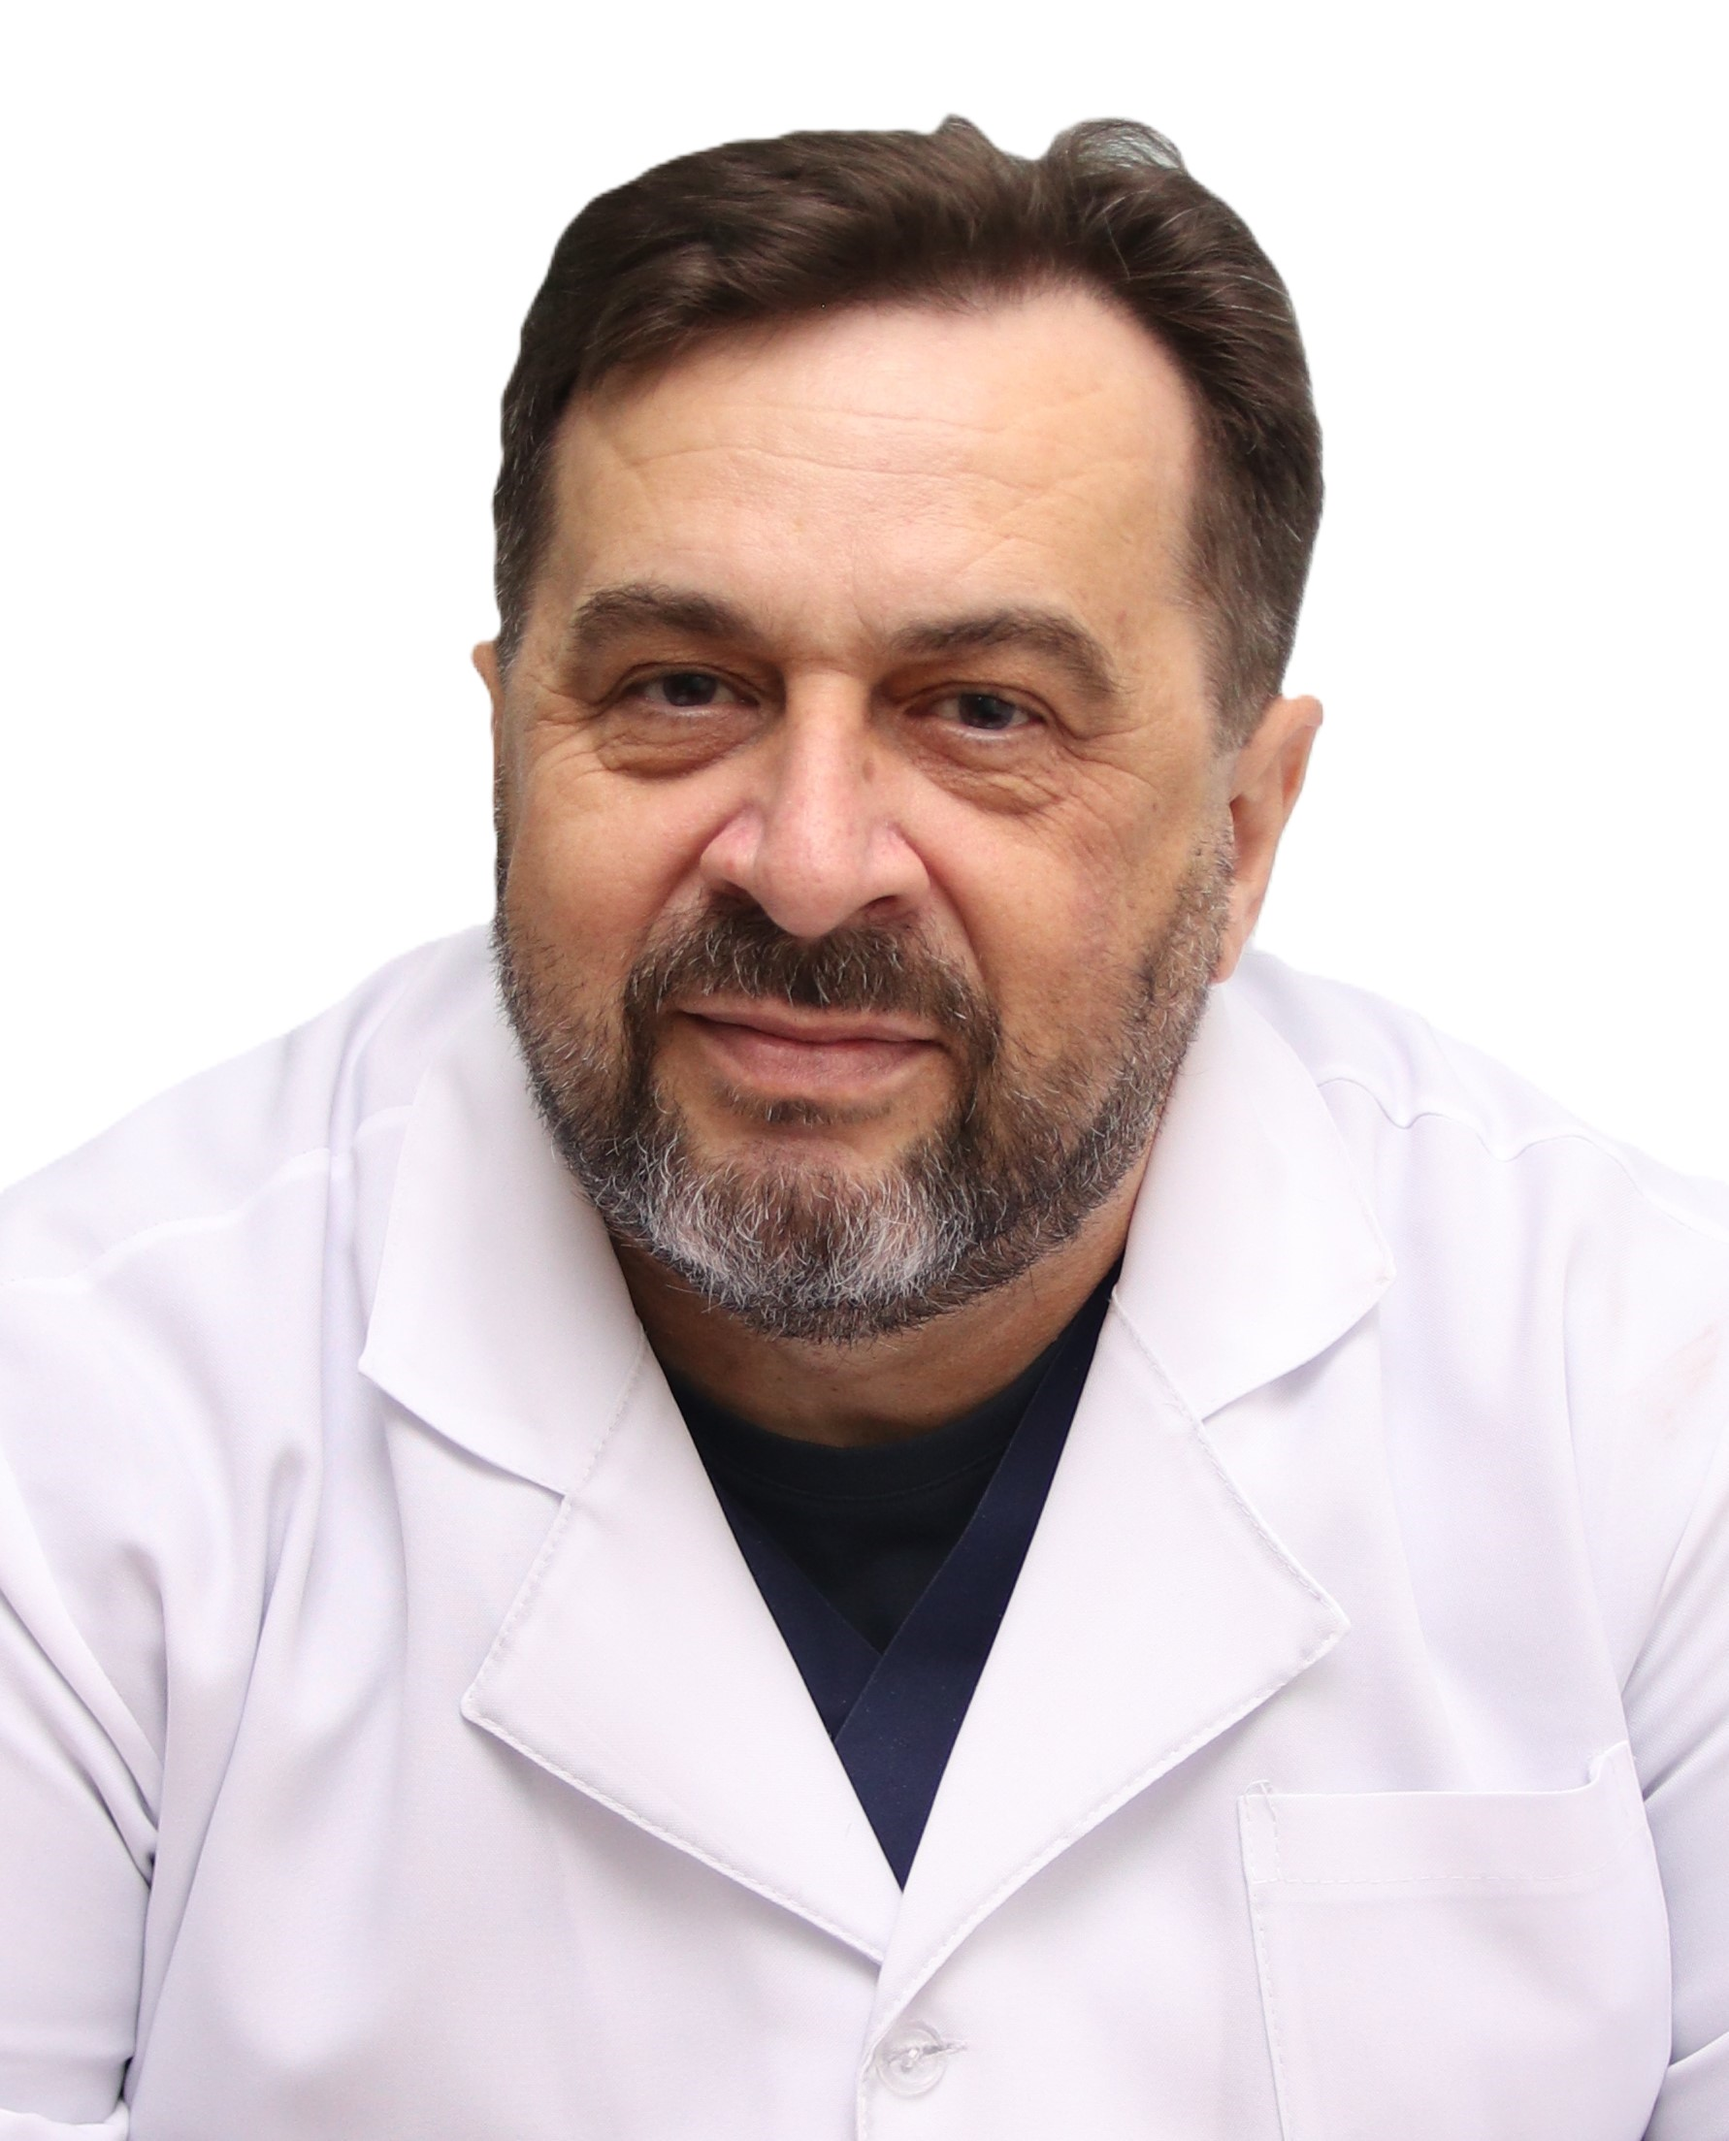
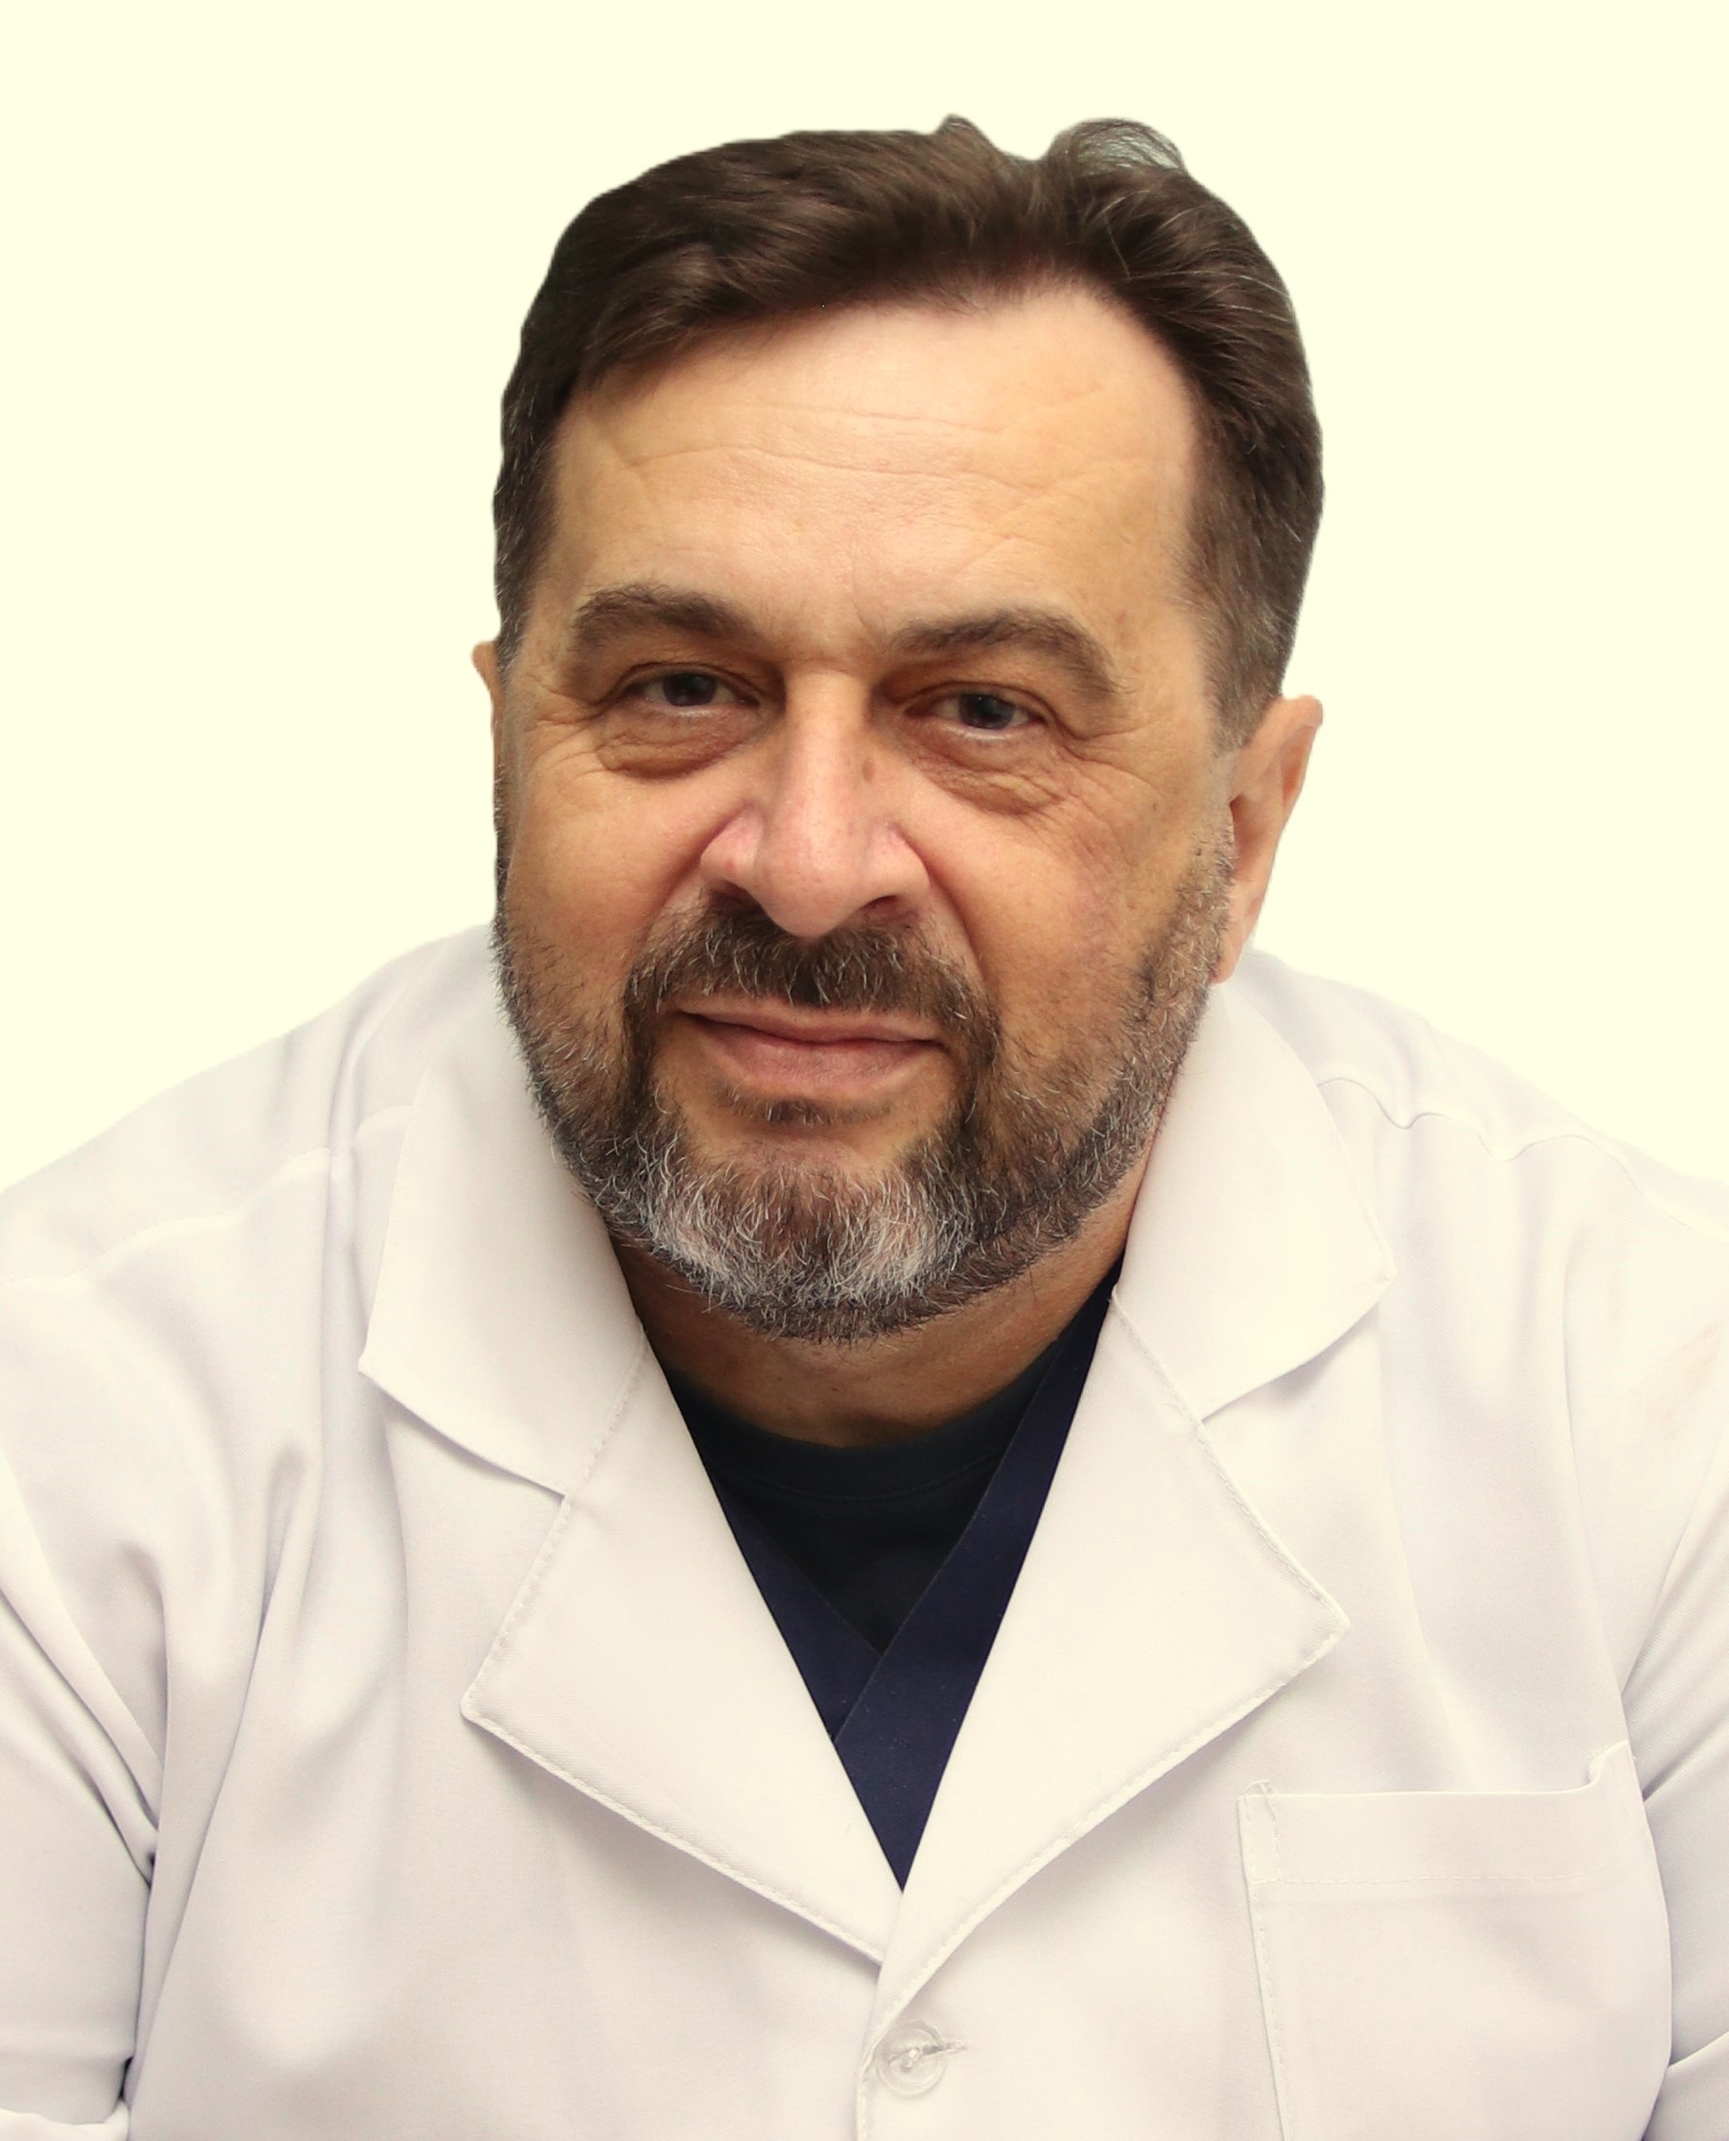
BsgBort 2 Foto

diff --git a/src/components/BigBord/BigBord.module.css b/src/components/BigBord/BigBord.module.css
@@ -15,18 +15,18 @@
 
 /* Контейнер для тексту та зображення */
 .containerBig {
-  background-image: url('/images/backround/backround2.jpg');
+  /* background-image: url('/images/backround/backround2.jpg'); */
   display: flex;
   flex-direction: row; /* Розміщення елементів у рядок */
   align-items: center; /* Вирівнювання по вертикалі */
   width: 90%; /* Ширина контейнера */
   max-width: 1200px; /* Максимальна ширина */
-  background-color: rgba(255, 255, 255, 0.8); /* Напівпрозорий білий фон */
+  background-color: rgba(255, 255, 255, 0); /* Напівпрозорий білий фон */
   border-radius: 10px; /* Округлені кути */
   /* box-shadow: 0px 4px 6px rgb(3, 150, 3); */
   overflow: hidden; /* Прибираємо вихід за межі */
-  box-shadow: 5px 10px rgba(57, 219, 42, 0.308),
-    -0.5em -0.3 0.4em rgba(133, 189, 28, 0.541);
+  /* box-shadow: 5px 10px rgba(57, 219, 42, 0.308); */
+  /* -0.5em -0.3 0.4em rgba(133, 189, 28, 0.541); */
 }
 
 /* Секція з текстом */
@@ -38,7 +38,7 @@
 }
 
 .mainTitle {
-  color: #660404ff;
+  color: #0c6e14ff;
   margin-bottom: 20px;
   font-size: 2.5rem;
 }
@@ -46,6 +46,7 @@
 .subTitle {
   font-size: 1.6rem;
   margin-bottom: 20px;
+  color: #ebee59ff;
 }
 
 /* Секція зображення */
@@ -55,8 +56,10 @@
   align-items: center; /* Вирівнювання зображення по вертикалі */
   justify-content: center; /* Центрування зображення */
   padding: 0px;
-  background-color: rgba(235, 224, 224, 0); /* Легкий затемнений фон */
+  background-color: rgba(88, 231, 56, 0.055); /* Легкий затемнений фон */
+  border-radius: 20% 20% 0 0;
 }
+
 /* Кнопка */
 .contactButton {
   background-color: #d1540bff;

diff --git a/src/components/BigBord/BigBord.tsx b/src/components/BigBord/BigBord.tsx
@@ -22,9 +22,9 @@ const BigBord: React.FC = () => {
         </div>
         <div className={styles.bigImage}>
           <Image
-            src="/images/bigBort/pecheriaha11.JPG" // Шлях до зображення з папки public
+            src="/images/bigBort/IMG_79941-removebg-preview.png" // Шлях до зображення з папки public
             alt="Doctor"
-            width={350}
+            width={450}
             height={430}
           />
         </div>
